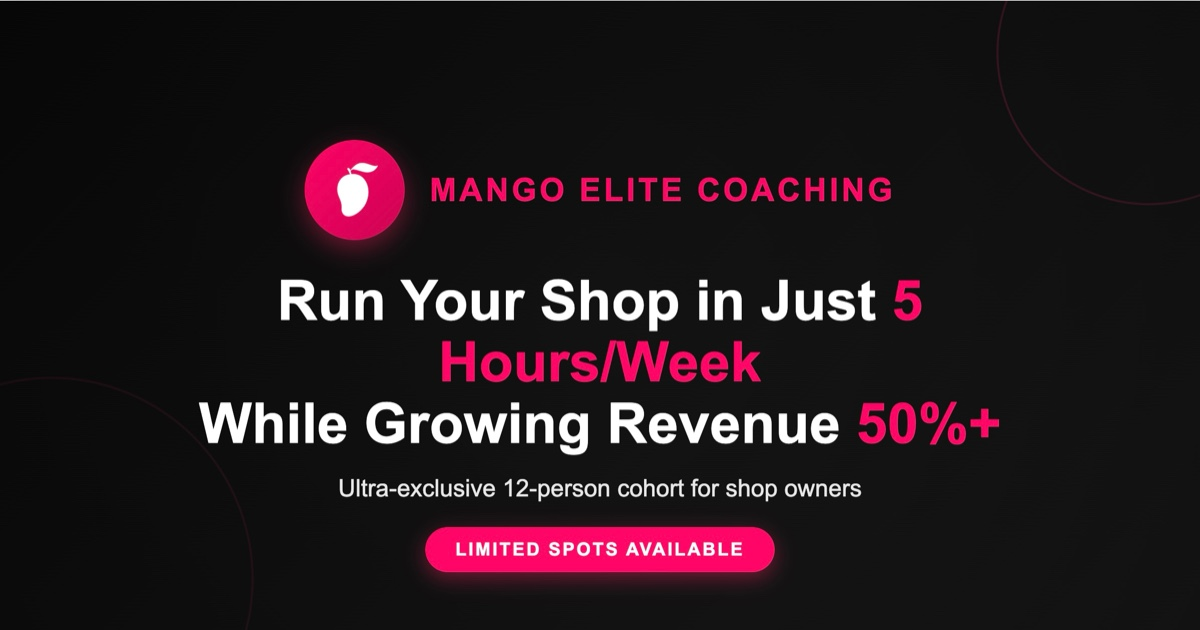
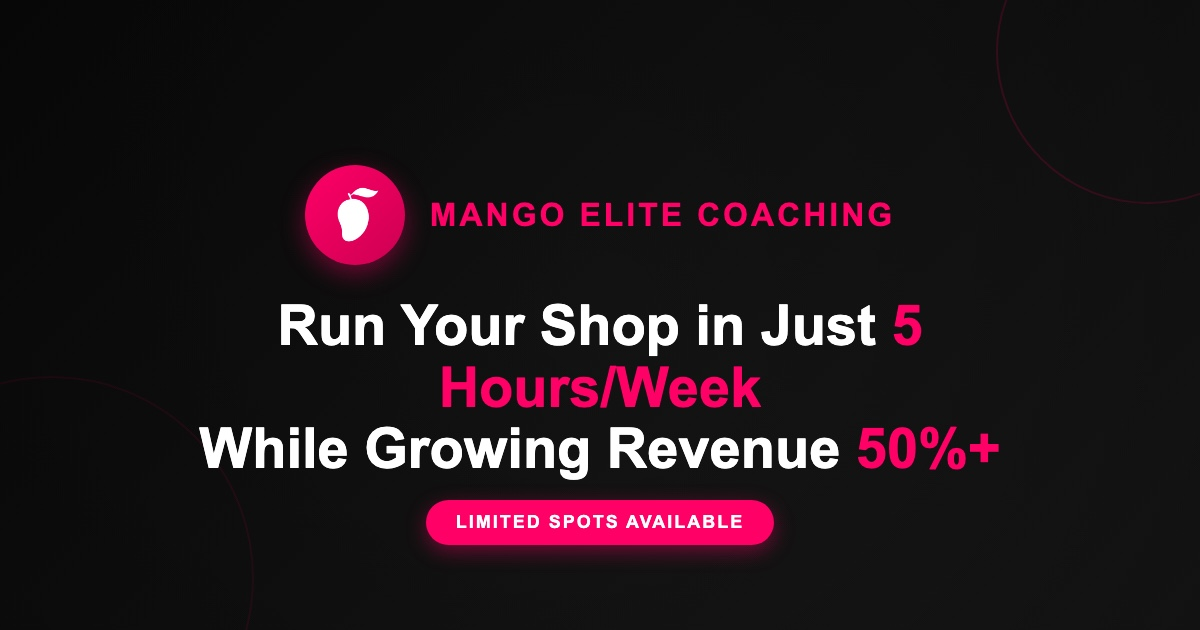
Remove phases 1-3 and 12-shop cohort mentions; shrink headshot
Keep the program details, pricing and guarantee without the Phase 1
label. Regenerate og-image.jpg without the cohort line.

Changed region(s): [[0.1542, 0.2111, 0.8325, 0.9349]]

diff --git a/index.html b/index.html
@@ -5,7 +5,7 @@
     <meta name="viewport" content="width=device-width, initial-scale=1.0">
     <!-- Essential Open Graph Tags -->
         <meta property="og:title" content="Mango Elite Coaching - 5-Hour Shop Owner Program">
-        <meta property="og:description" content="Transform your automotive shop: Run it in just 5 hours/week while growing revenue 50%+. Exclusive 12-owner cohort with proven systems from our $15M+ empire.">
+        <meta property="og:description" content="Transform your automotive shop: Run it in just 5 hours/week while growing revenue 50%+. Proven systems from our $15M+ empire.">
         <meta property="og:image" content="https://mangoelitecoaching.com/og-image.jpg">
         <meta property="og:image:width" content="1200">
         <meta property="og:image:height" content="630">
@@ -15,7 +15,7 @@
         <!-- Twitter Card Tags -->
         <meta name="twitter:card" content="summary_large_image">
         <meta name="twitter:title" content="Mango Elite Coaching - 5-Hour Shop Owner Program">
-        <meta name="twitter:description" content="Transform your automotive shop: Run it in just 5 hours/week while growing revenue 50%+. Exclusive 12-owner cohort with proven systems from our $15M+ empire.">
+        <meta name="twitter:description" content="Transform your automotive shop: Run it in just 5 hours/week while growing revenue 50%+. Proven systems from our $15M+ empire.">
         <meta name="twitter:image" content="https://mangoelitecoaching.com/og-image.jpg">
 
     <title>Mango Elite Coaching - 5-Hour Shop Owner Program</title>
@@ -1781,7 +1781,7 @@
                 </div>
                 <h3 class="program-title">Mango Elite Coaching</h3>
                 <h1 class="headline">Imagine Running Your Shop in Just <span class="highlight">5 Hours a Week</span> — While Growing Revenue by <span class="highlight">50%+</span></h1>
-                <p class="subheadline">Here's how we make it happen, in an ultra-exclusive cohort of only 12 owner-operators.</p>
+                <p class="subheadline">Here's how we make it happen.</p>
             </div>
         </div>
     </header>
@@ -2127,11 +2127,6 @@
         
         <div class="container phases">
             <div class="phase">
-                <div class="phase-header">
-                    <div class="phase-icon">1</div>
-                    <h2 class="phase-title">Phase 1: Claim Your Freedom</h2>
-                </div>
-                
                 <p><strong>Your Goal:</strong> Hit 20%+ YoY growth... with you in-shop ≤ 20 hrs/week</p>
                 
                 <h3 class="heading-secondary">Your Gain:</h3>
@@ -2178,50 +2173,11 @@
             
             <div class="phase">
                 <div class="phase-header">
-                    <div class="phase-icon">2</div>
-                    <h2 class="phase-title">Phase 2: We Become Your Engine</h2>
-                </div>
-                
-                <p><strong>When You Qualify:</strong> $1M+ revenue, 5% net... and you're already down to 20 hrs/week</p>
-                
-                <h3 class="heading-secondary">Your Gain:</h3>
-                <ul class="feature-list">
-                    <li><strong>We run the show:</strong> Our team manages marketing, recruiting, and sales training for you</li>
-                    <li><strong>Full-service partnership:</strong> We become your operations team so you can work ON the business, not IN it</li>
-                    <li><strong>Quarterly sprints & VIP calls:</strong> High-impact workshops and direct access to our founders to crush any remaining time-sinks</li>
-                </ul>
-                
-                <div class="investment">
-                    <h3 class="heading-secondary">Investment:</h3>
-                    <p><strong>Done for you:</strong> A la carte marketing, recruiting and sales execution to get you to a 5 hour workweek.</p> 
-                    <p><strong>Plus a profit-only share:</strong> 100% baseline valuation stays with you; every dollar above is 60/40 in your favor.</p>
-                </div>
-            </div>
-            
-            <div class="phase">
-                <div class="phase-header">
-                    <div class="phase-icon">3</div>
-                    <h2 class="phase-title">Phase 3: Exit on Your Terms</h2>
-                </div>
-                
-                <p><strong>When You Qualify:</strong> Sustained $2M+ at 15%+ net with you practically hands-off</p>
-                
-                <h3 class="heading-secondary">Your Gain:</h3>
-                <ul class="feature-list">
-                    <li><strong>Profit-Only Option:</strong> 100% baseline valuation stays with you; every dollar above is 60/40 in your favor</li>
-                    <li><strong>White-glove M&A support:</strong> Buyer positioning, deal structuring, and retirement planning—so you step away stress-free</li>
-                    <li><strong>License our brand & systems:</strong> Keep that 5-hour freedom alive for whoever runs your shop next</li>
-                </ul>
-            </div>
-            
-            <div class="phase">
-                <div class="phase-header">
                     <div class="phase-icon">★</div>
                     <h2 class="phase-title">Why This Delivers 5-Hour Freedom:</h2>
                 </div>
                 
                 <ul class="feature-list">
-                    <li><strong>Exclusive cohort (12 shops):</strong> We obsess over your success, not churn through hundreds of clients</li>
                     <li><strong>Weekly scorecards & pods:</strong> Your future 5-hr workweek is baked into every meeting</li>
                     <li><strong>Performance-only options:</strong> We succeed only when you do—so we're as motivated as you are</li>
                 </ul>

diff --git a/ratchet-wrench/index.html b/ratchet-wrench/index.html
@@ -270,7 +270,7 @@
                 </div>
                 <div class="benefit-item">
                     <span class="benefit-icon">✓</span>
-                    <span><strong>Exclusive Coaching Program Details</strong> - Limited to 12 owner-operators</span>
+                    <span><strong>Exclusive Coaching Program Details</strong></span>
                 </div>
             </div>
             
@@ -363,7 +363,6 @@
                 
                 <div style="text-align: center; margin-top: 30px;">
                     <h3>Ready to Transform Your Shop?</h3>
-                    <p style="margin: 15px 0;">Join our exclusive cohort of 12 owner-operators</p>
                     <a href="https://mangoelitecoaching.com" style="display: inline-block; background: linear-gradient(135deg, #ff0066 0%, #cc0052 100%); color: white; padding: 15px 30px; border-radius: 10px; text-decoration: none; font-weight: bold;">Visit MangoEliteCoaching.com</a>
                 </div>
                 

diff --git a/og-image.html b/og-image.html
@@ -167,10 +167,6 @@
                 While Growing Revenue <span class="highlight">50%+</span>
             </div>
             
-            <div class="subheadline">
-                Ultra-exclusive 12-person cohort for shop owners
-            </div>
-            
             <div class="cta-badge">
                 Limited Spots Available
             </div>
